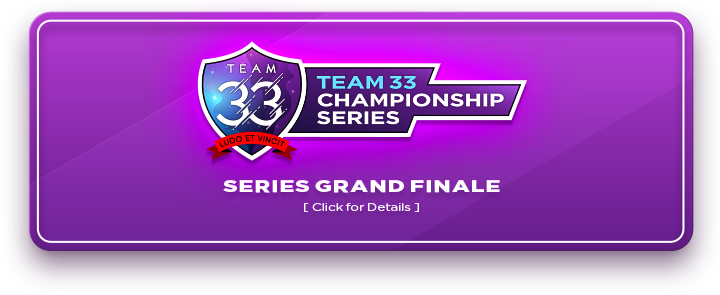
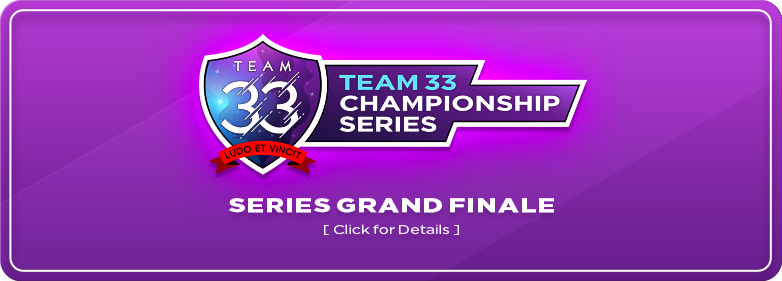
novo layer3

diff --git a/src/layers/Layer3/index.tsx b/src/layers/Layer3/index.tsx
@@ -7,6 +7,7 @@ import {
   StagesGridContainer,
   StagesGrid,
   StageGridImg,
+  StagesRectangle,
   Title,
   PlacementRoot,
   PlacementTitle,
@@ -120,78 +121,43 @@ const Layer3: React.FC = () => {
                 onClick={() => setGrandFinaleModal(true)}
                 onKeyPress={() => setGrandFinaleModal(true)}
                 role="button"
-                style={{ cursor: 'pointer' }}
+                style={{ cursor: 'pointer', display: 'flex', justifyContent: 'center' }}
                 tabIndex={0}
+
               >
-                <img
+                <StagesRectangle
                   src="/images/layer3/retangulo.png"
                   alt="Series Grand Finale"
-                  style={{ height: 'auto', maxWidth: '100%' }}
                 />
               </div>
               <StagesGridContainer>
                 <StagesGrid>
-                  <div>
-                    <div
-                      id="stagesArrow"
-                      style={{
-                        position: 'absolute',
-                        margin: '45px 321px',
-                      }}
-                    >
-                      <img src="/images/layer3/small-arrow.png" alt="Arrow" />
-                    </div>
-                    <div
-                      onClick={() => setStage2Modal(true)}
-                      onKeyPress={() => setStage2Modal(true)}
-                      role="button"
-                      style={{ cursor: 'pointer' }}
-                      tabIndex={0}
-                    >
-                      <StageGridImg src="/images/layer3/stage-2.png" alt="Stage 2 - Click for details." />
-                    </div>
+                  <div
+                    onClick={() => setStage1Modal(true)}
+                    onKeyPress={() => setStage1Modal(true)}
+                    role="button"
+                    style={{ cursor: 'pointer' }}
+                    tabIndex={0}
+                  >
+                    <StageGridImg src="/images/layer3/stage-1.png" alt="Stage 1 - Click for details." />
                   </div>
-                  <div id="stage3">
-                    <div
-                      id="stagesArrow"
-                      style={{
-                        position: 'absolute',
-                        margin: '-192px 321px',
-                      }}
-                    >
-                      <img src="/images/layer3/big-arrow.png" alt="Arrow" />
-                    </div>
-                    <div
-                      onClick={() => setStage3Modal(true)}
-                      onKeyPress={() => setStage3Modal(true)}
-                      role="button"
-                      style={{ cursor: 'pointer' }}
-                      tabIndex={0}
-                    >
-                      <StageGridImg src="/images/layer3/stage-3.png" alt="Stage 3 - Click for details." />
-                    </div>
+                  <div
+                    onClick={() => setStage2Modal(true)}
+                    onKeyPress={() => setStage2Modal(true)}
+                    role="button"
+                    style={{ cursor: 'pointer' }}
+                    tabIndex={0}
+                  >
+                    <StageGridImg src="/images/layer3/stage-2.png" alt="Stage 2 - Click for details." />
                   </div>
-                </StagesGrid>
-                <StagesGrid style={{ justifyContent: 'space-around' }}>
-                  <div>
-                    <div
-                      id="stagesArrow"
-                      style={{
-                        position: 'absolute',
-                        margin: '-30px 0 0 -72px',
-                      }}
-                    >
-                      <img src="/images/layer3/medium-arrow.png" alt="Arrow" />
-                    </div>
-                    <div
-                      onClick={() => setStage1Modal(true)}
-                      onKeyPress={() => setStage1Modal(true)}
-                      role="button"
-                      style={{ cursor: 'pointer' }}
-                      tabIndex={0}
-                    >
-                      <StageGridImg src="/images/layer3/stage-1.png" alt="Stage 1 - Click for details." />
-                    </div>
+                  <div
+                    onClick={() => setStage3Modal(true)}
+                    onKeyPress={() => setStage3Modal(true)}
+                    role="button"
+                    style={{ cursor: 'pointer' }}
+                    tabIndex={0}
+                  >
+                    <StageGridImg src="/images/layer3/stage-3.png" alt="Stage 3 - Click for details." />
                   </div>
                 </StagesGrid>
               </StagesGridContainer>

diff --git a/src/layers/Layer3/styles.ts b/src/layers/Layer3/styles.ts
@@ -72,10 +72,19 @@ export const Description = styled.div`
 export const StagesContainer = styled.div`
   display: flex;
   flex-direction: column;
-  width: 720px;
+  width: 820px;
 
   @media(max-width: 768px) {
     width: auto;
+  }
+`;
+
+export const StagesRectangle = styled.img`
+  height: auto;
+  max-width: 80%;
+
+  @media(max-width: 768px) {
+    max-width: 100%;
   }
 `;
 
@@ -102,6 +111,7 @@ export const StagesGrid = styled.div`
 export const StageGridImg = styled.img`
   max-width: 100%;
   height: auto;
+  padding: 40px 20px 20px 20px;
 `;
 
 /**
